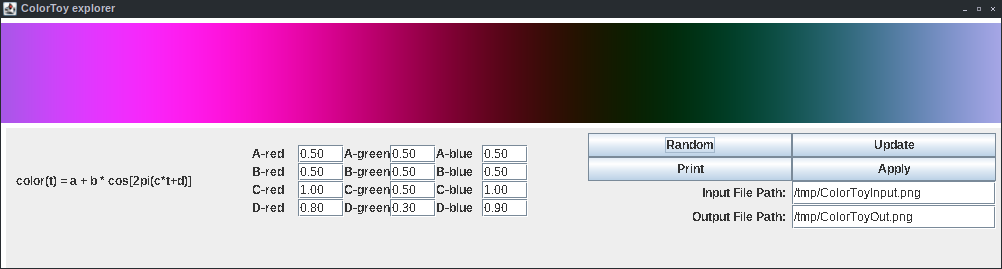
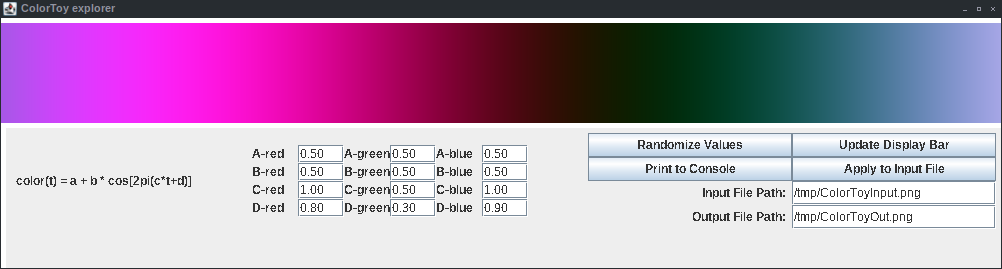
Make button functions more clear.

diff --git a/ControlPanel.java b/ControlPanel.java
@@ -79,10 +79,10 @@ public class ControlPanel extends JPanel{
 		func_lbl = new JLabel("color(t) = a + b * cos[2pi(c*t+d)]");
 
        
-	update = new JButton("Update");
-	printer = new JButton("Print");
-	randbtn = new JButton("Random");
-	apply = new JButton("Apply");
+	update = new JButton("Update Display Bar");
+	printer = new JButton("Print to Console");
+	randbtn = new JButton("Randomize Values");
+	apply = new JButton("Apply to Input File");
 	this.colortoy = colortoypanel;
 
 	update.addActionListener(new ButtonListener(update));

diff --git a/README.md b/README.md
@@ -28,13 +28,13 @@ Compile the project with: `javac *.java`
 
 Then run: `java ColorToy`
 
-The Random button scrambles all parameter values.
+The 'Randomize Values' button scrambles all parameter values.
 
-The Update button redraws the color bar.
+The 'Update Display Bar' button redraws the color bar.
 
-The Print button outputs the function parameters to the system Console.
+The 'Print to Console' button outputs the function parameters to the system Console.
 
-The Apply button maps the currently displayed palette on the image file specified by the Input File Path, and writes the output to a file specified by the Output File Path.  TIFF, PNG, JPEG, and BMP file types are supported.
+The 'Apply to Input File' button maps the currently displayed palette on the image file specified by the Input File Path, and writes the output to a file location specified by the Output File Path.  TIFF, PNG, JPEG, and BMP file types are supported.
 
 # Demos
 Example Input File
